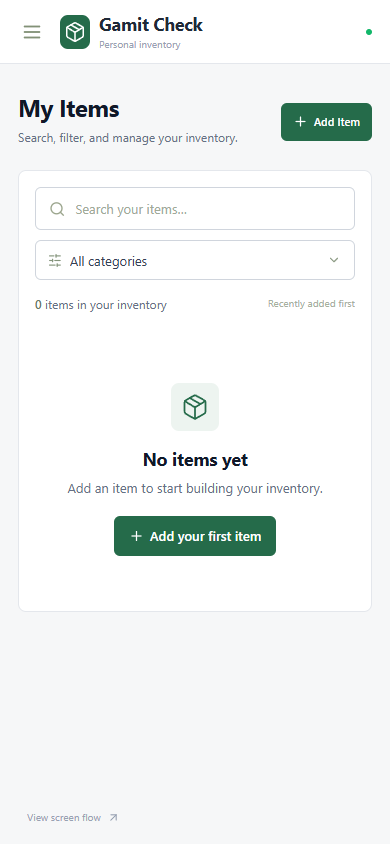
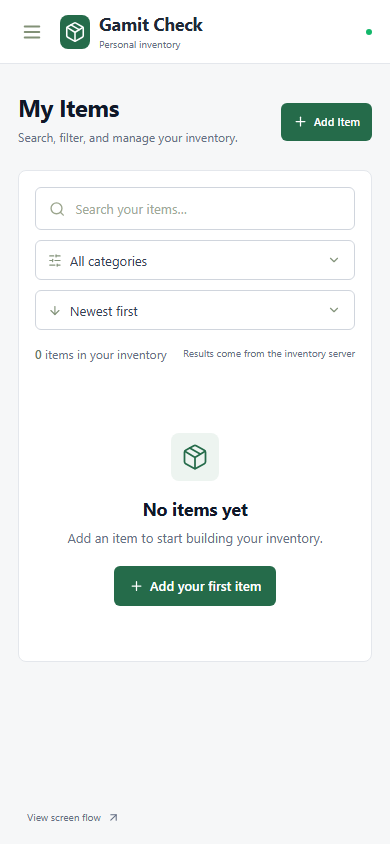
Refresh README and application screenshots

diff --git a/README.md b/README.md
@@ -4,6 +4,8 @@
 
 Gamit Check is a complete personal inventory web application for people who want to remember what they own, where they keep it, and its condition. React provides the interface, Express provides the API, and PostgreSQL stores item records and optional photos. The application includes persistent CRUD, server-side inventory queries, accessible error recovery, automated multi-browser tests, and a container-ready production build.
 
+**Repository:** [github.com/kian21992/Gamit-Check](https://github.com/kian21992/Gamit-Check)
+
 ## 2. Setup and installation
 
 ### Prerequisites
@@ -81,14 +83,20 @@ npm run dev
 
 Open **http://localhost:5173**. A working app displays **API connected**. A new database shows zero-valued cards and a **No items yet** panel. Press **Ctrl+C** to stop both processes.
 
-To build and check the production version locally:
+To build the production version:
 
 ```sh
 npm run build
-npm run preview
 ```
 
-The build creates `dist/`. The preview normally opens at **http://localhost:4173**; use the address Vite prints. This is a local preview, not a public deployment.
+The build creates `dist/`. With PostgreSQL still running, start the production server in PowerShell:
+
+```powershell
+$env:NODE_ENV="production"
+npm start
+```
+
+Open **http://localhost:3000**. Express serves the built React application and API from the same address.
 
 ### Run the automated tests
 
@@ -98,7 +106,7 @@ Keep `npm run db:local` running, close any application data you do not want to e
 npm test
 ```
 
-The test command runs validation unit tests, API integration tests, accessibility checks, and Chromium, Firefox, and WebKit browser tests. Tests create uniquely named records and remove only those records afterward. Individual commands are `npm run test:unit`, `npm run test:api`, and `npm run test:e2e`.
+The test command runs 18 validation, API, photo, accessibility, and Chromium/Firefox/WebKit browser tests. Tests create uniquely named records and remove only those records afterward. Individual commands are `npm run test:unit`, `npm run test:api`, and `npm run test:e2e`.
 
 ## 4. Features and usage
 
@@ -117,7 +125,7 @@ The test command runs validation unit tests, API integration tests, accessibilit
 | Dashboard       | `/#/`                              | Live item, category, and recent-item counts      |
 | My Items        | `/#/items`                         | Saved records with search and category filtering |
 | Add Item        | `/#/add`                           | Validated form that creates a PostgreSQL record  |
-| Navigation flow | `/#/flow`                          | Diagram of the intended five-screen flow         |
+| Navigation flow | `/#/flow`                          | Diagram of the implemented five-screen flow      |
 | Item Details    | `/#/items/:id`                     | Displays one saved item                          |
 | Edit Item       | `/#/items/:id/edit`                | Updates an existing PostgreSQL record            |
 
@@ -176,7 +184,7 @@ REPORT.md           Weekly Increment Report
 
 ## 6. Screenshots
 
-These screenshots show the running app after sample items were removed.
+These screenshots show the current application running against the local API and PostgreSQL database.
 
 **Dashboard — desktop**
 
@@ -186,7 +194,7 @@ These screenshots show the running app after sample items were removed.
 
 ![My Items with search and category controls and no inventory records](docs/previews/my-items-desktop.png)
 
-See the [screenshot gallery](docs/previews/README.md) for mobile layouts and other screens. Earlier populated Item Details, Edit Item, and Delete confirmation images are labeled as historical design references, not current inventory records.
+See the [screenshot gallery](docs/previews/README.md) for current desktop and mobile layouts of every major screen.
 
 ## 7. Known issues and next steps
 
@@ -199,6 +207,6 @@ See the [screenshot gallery](docs/previews/README.md) for mobile layouts and oth
 
 The Express production server serves both the built React interface and `/api`. `Dockerfile` builds the application, while `compose.yaml` runs it with PostgreSQL. Follow [DEPLOYMENT.md](DEPLOYMENT.md) for local containers, hosted environment variables, health checks, and release verification.
 
-See the [wireframe reference](WIREFRAME.md) for the planned flow and the [Weekly Increment Report](REPORT.md) for completed work and remaining tasks.
+See the [design and navigation reference](WIREFRAME.md) and the [Weekly Increment Report](REPORT.md) for completed work and remaining release tasks.
 
 A complete copy of this guide is also available in [docs/README.md](docs/README.md) for workspace submission.

diff --git a/docs/README.md b/docs/README.md
@@ -4,6 +4,8 @@
 
 Gamit Check is a complete personal inventory web application for people who want to remember what they own, where they keep it, and its condition. React provides the interface, Express provides the API, and PostgreSQL stores item records and optional photos. The application includes persistent CRUD, server-side inventory queries, accessible error recovery, automated multi-browser tests, and a container-ready production build.
 
+**Repository:** [github.com/kian21992/Gamit-Check](https://github.com/kian21992/Gamit-Check)
+
 ## 2. Setup and installation
 
 ### Prerequisites
@@ -77,14 +79,20 @@ npm run dev
 
 Open **http://localhost:5173**. A working app displays **API connected**. A new database shows zero-valued cards and a **No items yet** panel. Press **Ctrl+C** to stop both processes.
 
-Build and preview the production version:
+Build the production version:
 
 ```sh
 npm run build
-npm run preview
 ```
 
-The build creates `dist/`. The preview normally uses **http://localhost:4173**, but the printed address is the source of truth.
+The build creates `dist/`. With PostgreSQL still running, start the production server in PowerShell:
+
+```powershell
+$env:NODE_ENV="production"
+npm start
+```
+
+Open **http://localhost:3000**. Express serves the built interface and API from the same address.
 
 ### Run the automated tests
 
@@ -94,7 +102,7 @@ Keep `npm run db:local` running, then run:
 npm test
 ```
 
-This runs validation unit tests, API integration tests, accessibility checks, and Chromium, Firefox, and WebKit browser tests. Temporary test records are identified by their returned IDs and removed afterward. Use `npm run test:unit`, `npm run test:api`, or `npm run test:e2e` to run one layer.
+This runs 18 validation, API, photo, accessibility, and Chromium/Firefox/WebKit browser tests. Temporary test records are identified by their returned IDs and removed afterward. Use `npm run test:unit`, `npm run test:api`, or `npm run test:e2e` to run one layer.
 
 ## 4. Features and usage
 
@@ -114,7 +122,7 @@ This runs validation unit tests, API integration tests, accessibility checks, an
 | Dashboard       | `/#/`               | Live item, category, and recent-item counts      |
 | My Items        | `/#/items`          | Saved records with search and category filtering |
 | Add Item        | `/#/add`            | Validated form that creates a PostgreSQL record  |
-| Navigation flow | `/#/flow`           | Planned five-screen flow diagram                 |
+| Navigation flow | `/#/flow`           | Implemented five-screen flow diagram             |
 | Item Details    | `/#/items/:id`      | Displays one saved item                          |
 | Edit Item       | `/#/items/:id/edit` | Updates an existing PostgreSQL record            |
 
@@ -201,7 +209,7 @@ The images below are embedded from `docs/previews/`. In VS Code, open the render
 
 <img src="./previews/navigation-flow-desktop.png" alt="Gamit Check navigation flow on desktop" width="100%">
 
-See the [complete screenshot gallery](previews/README.md) for mobile layouts and other screens. The populated Item Details, Edit Item, and Delete confirmation screenshots are historical design references and do not represent current records.
+See the [complete screenshot gallery](previews/README.md) for current desktop and mobile layouts of every major screen.
 
 ## 7. Known issues and next steps
 

diff --git a/docs/previews/README.md b/docs/previews/README.md
@@ -1,8 +1,8 @@
-# Screen reference
+# Gamit Check screenshot gallery
 
-Full-page screenshots of the Gamit Check wireframe, captured in Chrome at 1440 px desktop and 390 px mobile widths.
+Full-page screenshots of the functional Gamit Check application, captured in Chromium at 1440 px desktop and 390 px mobile widths.
 
-Dashboard, My Items, Add Item, and Navigation flow reflect the current empty inventory. The Item Details, Edit Item, and Delete confirmation screenshots are retained as earlier design references; they do not represent items in the current app.
+Dashboard and My Items show a new empty inventory. Item Details, Edit Item, and Delete confirmation use a temporary screenshot record that was removed immediately after capture.
 
 | Screen              | Desktop                                    | Mobile                               |
 | ------------------- | ------------------------------------------ | ------------------------------------ |
@@ -14,6 +14,6 @@ Dashboard, My Items, Add Item, and Navigation flow reflect the current empty inv
 | Navigation flow     | [Desktop](navigation-flow-desktop.png)     | [Mobile](navigation-flow-mobile.png) |
 | Delete confirmation | [Desktop](delete-confirmation-desktop.png) | —                                    |
 
-The live wireframe is the source of truth for interactions. These screenshots provide a visual reference for later implementation and project presentations.
+The running application is the source of truth for interactions. These screenshots document the current responsive interface for project review and presentations.
 
 ![Gamit Check dashboard](dashboard-desktop.png)
